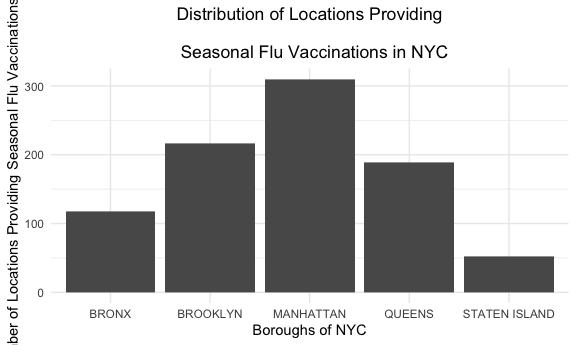
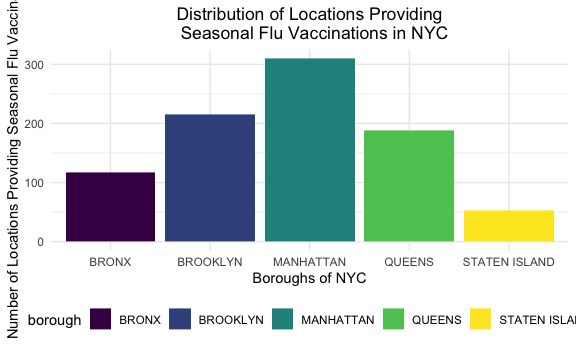
draft of leaflet map for covid vaccine

diff --git a/analysis.md b/analysis.md
@@ -7,7 +7,7 @@ Twindemic Analysis
 
 ## COMMIT FIRST, THEN PULL (FROM OTHER END)
 
-> > > > > > > Stashed changes
+Stashed changes
 
 # Data Cleaning
 
@@ -27,7 +27,7 @@ zip_lat_lon =
   read.table("./data/us_zipcode_lat_lon.txt", sep = ",", header = TRUE) %>% 
   janitor::clean_names() %>% 
   rename(zipcode = zip) %>% 
-  filter(zipcode %in% c(10001:10280))
+  filter(zipcode %in% c(10001:11697))
 ```
 
 From the datasets above, we will likely compare the following pairs:
@@ -176,7 +176,7 @@ Selected Social Characteristics
 ``` r
 flu_vaxx_loc = read_csv("./data/New_York_City_Locations_Providing_Seasonal_Flu_Vaccinations.csv")
 
-census_social = read_csv("./data/censuszip_selected_social_characterisitcs.csv")
+census_social = read_csv("./data/censuszip_selected_social_characterisitcs_new.csv")
 ```
 
 # Data Cleaning 2
@@ -185,56 +185,144 @@ Cleaning flu\_vaxx\_loc:
 
 ``` r
 flu_vaxx_byzipcode =
-
   flu_vaxx_loc %>%
-
   janitor::clean_names() %>%
-
   select(walk_in:zip_code, location) %>%
-
   filter(borough != "YONKERS") %>%
-
   group_by(zip_code) %>%
-
   summarize(n_loc = n()) #to get the total number of vax locations by zipcode
 
- 
-
 flu_vaxx_byboro =
-
     flu_vaxx_loc %>%
-
     janitor::clean_names() %>%
-
     mutate(borough = toupper(borough)) %>%
-
     filter(borough != "YONKERS") %>%
-
     group_by(borough) %>%
-
     summarize(n_loc_boro = n()) #to get the total number of vax locations by zipcode
 ```
 
-## Exploratory Analysis:
+## Exploratory Analysis
 
 ``` r
-ggplot(flu_vaxx_byboro, aes(x = borough, y = n_loc_boro)) +
-
+ggplot(flu_vaxx_byboro, aes(x = borough, y = n_loc_boro, fill = borough)) +
   geom_bar(stat = "identity") +
-
   labs(
-
     title = "Distribution of Locations Providing
-
   Seasonal Flu Vaccinations in NYC",
-
     x = "Boroughs of NYC",
-
     y = "Number of Locations Providing Seasonal Flu Vaccinations"
-
   ) +
-
   theme(plot.title = element_text(hjust = 0.5))
 ```
 
 <img src="analysis_files/figure-gfm/unnamed-chunk-12-1.png" width="90%" />
+
+# Social Demo
+
+``` r
+# education
+cs =
+  census_social %>%
+  janitor::clean_names() %>% 
+  select(name_1, borough, dp02_0060e, dp02_0061e,dp02_0062e,dp02_0063e,dp02_0064e,dp02_0065e, dp02_0066e, dp02_0067e, dp02_0068e) %>%
+  filter(borough != "Westchester" ,
+  borough != "Suffolk" ,
+  borough != "Nassau" ,
+  ) %>%
+  rename(
+  less_than_9th = dp02_0060e,
+  hs_no_diploma = dp02_0061e,
+  hs_grad = dp02_0062e,
+  some_college = dp02_0063e, 
+  Associates = dp02_0064e, 
+  Bachelors = dp02_0065e, 
+  Graduate_or_Professional = dp02_0066e, 
+  hs_or_higher = dp02_0067e, 
+  bachelors_or_higher = dp02_0068e
+  ) %>%
+  pivot_longer(
+    less_than_9th:bachelors_or_higher,
+    names_to = "education", 
+    values_to = "Estimates for Population over 25 years"
+  ) 
+```
+
+``` r
+# demographics
+demo =
+  census_social %>%
+  janitor::clean_names() %>% 
+  select(name_1, borough, dp02_0124e, dp02_0125e, dp02_0126e, dp02_0127e, dp02_0128e, dp02_0129e, dp02_0130e, dp02_0131e, dp02_0132e,
+dp02_0133e, dp02_0134e, dp02_0135e,dp02_0136e, dp02_0137e, dp02_0138e, dp02_0139e, dp02_0140e, dp02_0141e, dp02_0142e, dp02_0143e,  dp02_0144e, dp02_0145e,  dp02_0146e,  dp02_0147e, dp02_0148e,  dp02_0149e,  dp02_0150e) %>% 
+filter(borough != "Westchester" ,
+  borough != "Suffolk" ,
+  borough != "Nassau" ,
+  ) %>%
+  rename(
+  American = dp02_0124e, 
+  Arab = dp02_0125e, 
+  Czech = dp02_0126e, 
+  Danish = dp02_0127e, 
+  Dutch = dp02_0128e, 
+  English = dp02_0129e, 
+  French = dp02_0130e, 
+  French_Canadian = dp02_0131e, 
+  German = dp02_0132e,
+  Greek = dp02_0133e, 
+  Hungarian = dp02_0134e, 
+  Irish = dp02_0135e,
+  Italian = dp02_0136e, 
+  Lithuanian = dp02_0137e, 
+  Norwegian = dp02_0138e, 
+  Polish = dp02_0139e, 
+  Portuguese = dp02_0140e, 
+  Russian = dp02_0141e, 
+  Scotch_Irish = dp02_0142e, 
+  Scottish = dp02_0143e,  
+  Slovak = dp02_0144e, 
+  Subsaharan_African = dp02_0145e,  
+  Swedish = dp02_0146e,  
+  Swiss = dp02_0147e, 
+  Ukrainian = dp02_0148e,  
+  Welsh = dp02_0149e,  
+  West_Indian = dp02_0150e) %>%
+  pivot_longer(
+    American:West_Indian,
+    names_to = "ancestry", 
+    values_to = "Estimates for Population"
+  ) 
+```
+
+\#Merge data and try to make a leaflet
+
+``` r
+merged_vax = left_join(vax_by_zip_adults_df, zip_lat_lon, by = "zipcode")
+```
+
+``` r
+pal = colorFactor("viridis", NULL)
+merged_vax %>%
+  leaflet() %>%
+  addProviderTiles(providers$CartoDB.Positron) %>%
+  addCircleMarkers(~lng, ~lat, radius = 5, color = ~pal(perc_fully), popup = ~perc_fully) %>%
+    addLegend("bottomright", pal = pal, values = ~perc_fully,
+    title = "Percent fully vaccinated",
+    opacity = 1)
+```
+
+<div id="htmlwidget-44e12068daf6308abe10" style="width:90%;height:345.6px;" class="leaflet html-widget"></div>
+<script type="application/json" data-for="htmlwidget-44e12068daf6308abe10">{"x":{"options":{"crs":{"crsClass":"L.CRS.EPSG3857","code":null,"proj4def":null,"projectedBounds":null,"options":{}}},"calls":[{"method":"addProviderTiles","args":["CartoDB.Positron",null,null,{"errorTileUrl":"","noWrap":false,"detectRetina":false}]},{"method":"addCircleMarkers","args":[[40.750633,40.715775,40.731829,40.68863,40.706027,40.709614,40.713848,40.726399,40.739065,40.742039,40.725581,40.720103,40.734012,40.745224,40.75236,40.755319,40.765823,40.769258,40.758628,40.775921,40.798452,40.798601,40.802381,40.811407,40.776441,40.791763,40.818267,40.825288,40.838815,40.850545,40.867076,40.795455,40.75926,40.812957,40.709278,40.830867,40.858305,40.761915,40.764612,40.775906,40.773361,40.781432,40.708538,40.716921,40.627456,40.630688,40.629885,40.609227,40.596691,40.571768,40.509183,40.551884,40.531346,40.632648,40.545237,40.599263,40.820479,40.837393,40.852779,40.805489,40.81471,40.829881,40.84715,40.862543,40.825867,40.841758,40.847381,40.84328,40.880678,40.867787,40.822615,40.890964,40.869953,40.868093,40.868607,40.88953,40.898868,40.829556,40.81869,40.810549,40.875169,40.746204,40.747155,40.772884,40.762574,40.744634,40.778877,40.762211,40.745115,40.693682,40.649591,40.618779,40.694696,40.701954,40.670747,40.669769,40.621982,40.628147,40.712597,40.662936,40.671078,40.599148,40.662688,40.680768,40.682306,40.643468,40.632667,40.641221,40.69134,40.72779,40.597139,40.577372,40.663046,40.646448,40.616695,40.601293,40.622164,40.677916,40.656546,40.678308,40.60508,40.583949,40.639413,40.70416,40.679171,40.647735,40.768208,40.751452,40.78485,40.786393,40.760471,40.780379,40.764191,40.756574,40.772616,40.745289,40.739634,40.728152,40.730145,40.751718,40.763365,40.765393,40.75169,40.738837,40.726418,40.720934,40.744819,40.724744,40.716748,40.700671,40.694021,40.698095,40.671659,40.657604,40.707917,40.684654,40.676446,40.700272,40.688673,40.673583,40.694062,40.66006,40.715606,40.736425,40.730904,40.721016,40.709766,40.715359,40.698162,40.676808,40.701265,40.675807,40.601278,40.594095,40.590692,40.57827,40.555688],[-73.997177,-73.986212,-73.989181,-74.018244,-74.008835,-74.012954,-74.007755,-73.978631,-73.982255,-74.00062,-73.998078,-74.004903,-74.006746,-73.978297,-73.972493,-73.993114,-73.987169,-73.958751,-73.967948,-73.982607,-73.974428,-73.966622,-73.952681,-73.95306,-73.953509,-73.94397,-73.942856,-73.950045,-73.942836,-73.933983,-73.924312,-73.929655,-73.98986,-73.937376,-74.002562,-73.936218,-73.930549,-73.949962,-73.963122,-73.990358,-73.956216,-73.950013,-74.01665,-74.015066,-74.094407,-74.137776,-74.17413,-74.092575,-74.074866,-74.12595,-74.237785,-74.147646,-74.219857,-74.116148,-74.180443,-74.165748,-73.925084,-73.923437,-73.912332,-73.916585,-73.908593,-73.90812,-73.89868,-73.888143,-73.892942,-73.879571,-73.840584,-73.860389,-73.90654,-73.79992,-73.822239,-73.846239,-73.865746,-73.89973,-73.848133,-73.872662,-73.903328,-73.869336,-73.858474,-73.884367,-73.823817,-73.711478,-73.93975,-73.926295,-73.913447,-73.920201,-73.906769,-73.931528,-73.956928,-73.989693,-73.934371,-73.984826,-73.966286,-73.942358,-73.894209,-73.871372,-74.030324,-73.946324,-73.953098,-73.913029,-73.936336,-73.99609,-73.98674,-73.949316,-73.978099,-73.976046,-73.996669,-74.016862,-73.927879,-73.947605,-73.973428,-73.988706,-73.954219,-73.956649,-74.013047,-73.944493,-73.965105,-74.005154,-74.007355,-73.919936,-73.911721,-73.949096,-73.900664,-73.921139,-73.963804,-73.879477,-73.827403,-73.821031,-73.841279,-73.810864,-73.796371,-73.78123,-73.772775,-73.737845,-73.746526,-73.760586,-73.79449,-73.785019,-73.82703,-73.851822,-73.872374,-73.893243,-73.883638,-73.878535,-73.861526,-73.846151,-73.905156,-73.909639,-73.879601,-73.889433,-73.736216,-73.758986,-73.752568,-73.844804,-73.828212,-73.849548,-73.844443,-73.835971,-73.822918,-73.81773,-73.858626,-73.736012,-73.768471,-73.722376,-73.745661,-73.742245,-73.738653,-73.793071,-73.786893,-73.776425,-73.809605,-73.796622,-73.761651,-73.792896,-73.809749,-73.844762,-73.920663],5,null,null,{"interactive":true,"className":"","stroke":true,"color":["#EFE51C","#8AD547","#3A548C","#F6E620","#8DD645","#F3E61E","#D4E21A","#1F988B","#355E8D","#25AC82","#2E6F8E","#5FC961","#1F9E89","#99D83E","#D0E11C","#FDE725","#E4E419","#1F968B","#A0DA39","#50C46A","#2BB17E","#1FA187","#472A7A","#433E85","#23888E","#27808E","#482374","#3E4A89","#3B518B","#414387","#424186","#20938C","#FAE722","#482475","#33B679","#46327E","#3E4C8A","#2DB27D","#47C06F","#74D055","#91D743","#35B779","#26828E","#31688E","#218E8D","#21A685","#25848E","#23A983","#1F998A","#2FB47C","#472F7D","#453781","#3C4F8A","#37B878","#32648E","#3B528B","#31B57B","#26AD81","#24878E","#287D8E","#2C738E","#375B8D","#29798E","#365C8D","#21918C","#355F8D","#63CB5F","#41BD72","#228D8D","#1E9B8A","#3F4889","#481F70","#33628D","#31678E","#472E7C","#2E6E8E","#1E9C89","#297A8E","#38598C","#3F4788","#424186","#2A768E","#E7E419","#C0DF25","#56C667","#9CD93B","#287C8E","#66CB5D","#A8DB34","#7BD151","#404588","#30698E","#460C5F","#433C84","#3D4E8A","#2F6B8E","#20A386","#460A5D","#443983","#355F8D","#471365","#20928C","#1F958B","#34618D","#2A778E","#228B8D","#46075B","#D8E219","#2D718E","#44BF70","#46337F","#450559","#39558C","#277F8E","#24878E","#443A83","#481B6D","#38578C","#28AE80","#440356","#482072","#32658E","#48196B","#3CBB75","#3FBC73","#7ED34E","#C4E022","#EBE51B","#CCE11E","#59C765","#B8DE29","#3ABA76","#ACDC31","#53C569","#70CF57","#69CD5B","#5CC863","#24AA83","#21908D","#BCDF27","#C8E020","#2C718E","#D8E219","#DCE318","#4DC26C","#238A8D","#B0DD2F","#29AF7F","#2B748E","#26828E","#471063","#472C7A","#470E61","#453581","#20A486","#86D549","#6DCD59","#4AC16D","#82D34C","#3CBB75","#77D153","#482878","#22A785","#1FA188","#B4DE2C","#94D840","#481769","#A4DB36","#2F6C8E","#482677","#1F9F88","#25858E","#440154","#481567","#481C6E","#424086","#DFE318"],"weight":5,"opacity":0.5,"fill":true,"fillColor":["#EFE51C","#8AD547","#3A548C","#F6E620","#8DD645","#F3E61E","#D4E21A","#1F988B","#355E8D","#25AC82","#2E6F8E","#5FC961","#1F9E89","#99D83E","#D0E11C","#FDE725","#E4E419","#1F968B","#A0DA39","#50C46A","#2BB17E","#1FA187","#472A7A","#433E85","#23888E","#27808E","#482374","#3E4A89","#3B518B","#414387","#424186","#20938C","#FAE722","#482475","#33B679","#46327E","#3E4C8A","#2DB27D","#47C06F","#74D055","#91D743","#35B779","#26828E","#31688E","#218E8D","#21A685","#25848E","#23A983","#1F998A","#2FB47C","#472F7D","#453781","#3C4F8A","#37B878","#32648E","#3B528B","#31B57B","#26AD81","#24878E","#287D8E","#2C738E","#375B8D","#29798E","#365C8D","#21918C","#355F8D","#63CB5F","#41BD72","#228D8D","#1E9B8A","#3F4889","#481F70","#33628D","#31678E","#472E7C","#2E6E8E","#1E9C89","#297A8E","#38598C","#3F4788","#424186","#2A768E","#E7E419","#C0DF25","#56C667","#9CD93B","#287C8E","#66CB5D","#A8DB34","#7BD151","#404588","#30698E","#460C5F","#433C84","#3D4E8A","#2F6B8E","#20A386","#460A5D","#443983","#355F8D","#471365","#20928C","#1F958B","#34618D","#2A778E","#228B8D","#46075B","#D8E219","#2D718E","#44BF70","#46337F","#450559","#39558C","#277F8E","#24878E","#443A83","#481B6D","#38578C","#28AE80","#440356","#482072","#32658E","#48196B","#3CBB75","#3FBC73","#7ED34E","#C4E022","#EBE51B","#CCE11E","#59C765","#B8DE29","#3ABA76","#ACDC31","#53C569","#70CF57","#69CD5B","#5CC863","#24AA83","#21908D","#BCDF27","#C8E020","#2C718E","#D8E219","#DCE318","#4DC26C","#238A8D","#B0DD2F","#29AF7F","#2B748E","#26828E","#471063","#472C7A","#470E61","#453581","#20A486","#86D549","#6DCD59","#4AC16D","#82D34C","#3CBB75","#77D153","#482878","#22A785","#1FA188","#B4DE2C","#94D840","#481769","#A4DB36","#2F6C8E","#482677","#1F9F88","#25858E","#440154","#481567","#481C6E","#424086","#DFE318"],"fillOpacity":0.2},null,null,[115.54,92.64,75.43,132.59,93,126.6,106,81.24,75.92,83.7,78.01,89.4,82.29,93.65,104.14,160.72,111.63,80.97,94.26,88.27,84.87,82.88,69.98,71.92,79.8,79.08,68.82,73.7,75.31,72.8,72.3,80.69,140.5,69.17,85.12,70.73,74.01,84.91,87.59,91.48,93.06,86.09,79.11,76.88,80.07,83.12,79.53,83.56,81.85,84.92,70.19,71.22,74.62,86.44,76.28,75.33,85.04,83.74,79.71,79.04,78.39,75.6,78.88,75.84,80.28,75.99,89.54,87.19,80,82.04,73.24,68.72,76.05,76.69,70.08,77.33,82.17,78.95,75.53,73.07,72.3,78.47,113.17,100.54,88.36,93.69,78.97,90.08,95.37,92.03,72.96,76.89,66.09,71.72,74.05,77.03,83,65.83,71.53,75.99,67.05,80.48,80.96,76.04,78.5,79.9,65.38,107.16,78.17,87.38,70.83,65.31,75.47,79.07,79.71,71.57,68.11,75.51,83.88,64.29,68.73,76.42,67.82,87,87.03,92.11,101.69,113.92,103.64,88.89,98.81,86.85,95.46,88.31,90.64,90.5,89.08,83.67,80.12,99,102.48,78.35,107.16,111.01,88.18,79.85,97.15,84.24,78.46,79.36,67.04,69.99,66.34,71.05,83.11,92.44,90.56,87.88,92.41,87,92.01,69.81,83.32,82.74,97.47,93.17,67.4,94.4,77.3,69.54,82.67,79.63,61.35,67.19,68.14,72.03,111.36],null,null,{"interactive":false,"permanent":false,"direction":"auto","opacity":1,"offset":[0,0],"textsize":"10px","textOnly":false,"className":"","sticky":true},null]},{"method":"addLegend","args":[{"colors":["#440154","#440356","#450559","#46075B","#460A5D","#460C5F","#470E61","#471063","#471365","#481567","#481769","#48196B","#481B6D","#481C6E","#481F70","#482072","#482374","#482475","#482677","#482878","#472A7A","#472C7A","#472E7C","#472F7D","#46327E","#46337F","#453581","#453781","#443983","#443A83","#433C84","#433E85","#424086","#424186","#414387","#404588","#3F4788","#3F4889","#3E4A89","#3E4C8A","#3D4E8A","#3C4F8A","#3B518B","#3B528B","#3A548C","#39558C","#38578C","#38598C","#375B8D","#365C8D","#355E8D","#355F8D","#34618D","#33628D","#32648E","#32658E","#31678E","#31688E","#30698E","#2F6B8E","#2F6C8E","#2E6E8E","#2E6F8E","#2D718E","#2C718E","#2C738E","#2B748E","#2A768E","#2A778E","#29798E","#297A8E","#287C8E","#287D8E","#277F8E","#27808E","#26828E","#26828E","#25848E","#25858E","#24878E","#23888E","#238A8D","#228B8D","#228D8D","#218E8D","#21908D","#21918C","#20928C","#20938C","#1F958B","#1F968B","#1F988B","#1F998A","#1E9B8A","#1E9C89","#1F9E89","#1F9F88","#1FA188","#1FA187","#20A386","#20A486","#21A685","#22A785","#23A983","#24AA83","#25AC82","#26AD81","#28AE80","#29AF7F","#2BB17E","#2DB27D","#2FB47C","#31B57B","#33B679","#35B779","#37B878","#3ABA76","#3CBB75","#3FBC73","#41BD72","#44BF70","#47C06F","#4AC16D","#4DC26C","#50C46A","#53C569","#56C667","#59C765","#5CC863","#5FC961","#63CB5F","#66CB5D","#69CD5B","#6DCD59","#70CF57","#74D055","#77D153","#7BD151","#7ED34E","#82D34C","#86D549","#8AD547","#8DD645","#91D743","#94D840","#99D83E","#9CD93B","#A0DA39","#A4DB36","#A8DB34","#ACDC31","#B0DD2F","#B4DE2C","#B8DE29","#BCDF27","#C0DF25","#C4E022","#C8E020","#CCE11E","#D0E11C","#D4E21A","#D8E219","#DCE318","#DFE318","#E4E419","#E7E419","#EBE51B","#EFE51C","#F3E61E","#F6E620","#FAE722","#FDE725"],"labels":["61.35","64.29","65.31","65.38","65.83","66.09","66.34","67.04","67.05","67.19","67.4","67.82","68.11","68.14","68.72","68.73","68.82","69.17","69.54","69.81","69.98","69.99","70.08","70.19","70.73","70.83","71.05","71.22","71.53","71.57","71.72","71.92","72.03","72.3","72.8","72.96","73.07","73.24","73.7","74.01","74.05","74.62","75.31","75.33","75.43","75.47","75.51","75.53","75.6","75.84","75.92","75.99","76.04","76.05","76.28","76.42","76.69","76.88","76.89","77.03","77.3","77.33","78.01","78.17","78.35","78.39","78.46","78.47","78.5","78.88","78.95","78.97","79.04","79.07","79.08","79.11","79.36","79.53","79.63","79.71","79.8","79.85","79.9","80","80.07","80.12","80.28","80.48","80.69","80.96","80.97","81.24","81.85","82.04","82.17","82.29","82.67","82.74","82.88","83","83.11","83.12","83.32","83.56","83.67","83.7","83.74","83.88","84.24","84.87","84.91","84.92","85.04","85.12","86.09","86.44","86.85","87","87.03","87.19","87.38","87.59","87.88","88.18","88.27","88.31","88.36","88.89","89.08","89.4","89.54","90.08","90.5","90.56","90.64","91.48","92.01","92.03","92.11","92.41","92.44","92.64","93","93.06","93.17","93.65","93.69","94.26","94.4","95.37","95.46","97.15","97.47","98.81","99","100.54","101.69","102.48","103.64","104.14","106","107.16","111.01","111.36","111.63","113.17","113.92","115.54","126.6","132.59","140.5","160.72"],"na_color":null,"na_label":"NA","opacity":1,"position":"bottomright","type":"factor","title":"Percent fully vaccinated","extra":null,"layerId":null,"className":"info legend","group":null}]}],"limits":{"lat":[40.509183,40.898868],"lng":[-74.237785,-73.711478]}},"evals":[],"jsHooks":[]}</script>
+
+``` r
+pal = colorFactor("viridis", NULL)
+merged_vax %>%
+  leaflet() %>%
+  addProviderTiles(providers$CartoDB.Positron) %>%
+  addCircleMarkers(~lng, ~lat, radius = 5, color = ~pal(perc_partially), popup = ~perc_partially) %>%
+    addLegend("bottomright", pal = pal, values = ~perc_partially,
+    title = "Percent partially vaccinated",
+    opacity = 1)
+```
+
+<div id="htmlwidget-e2d2feea60699843d585" style="width:90%;height:345.6px;" class="leaflet html-widget"></div>
+<script type="application/json" data-for="htmlwidget-e2d2feea60699843d585">{"x":{"options":{"crs":{"crsClass":"L.CRS.EPSG3857","code":null,"proj4def":null,"projectedBounds":null,"options":{}}},"calls":[{"method":"addProviderTiles","args":["CartoDB.Positron",null,null,{"errorTileUrl":"","noWrap":false,"detectRetina":false}]},{"method":"addCircleMarkers","args":[[40.750633,40.715775,40.731829,40.68863,40.706027,40.709614,40.713848,40.726399,40.739065,40.742039,40.725581,40.720103,40.734012,40.745224,40.75236,40.755319,40.765823,40.769258,40.758628,40.775921,40.798452,40.798601,40.802381,40.811407,40.776441,40.791763,40.818267,40.825288,40.838815,40.850545,40.867076,40.795455,40.75926,40.812957,40.709278,40.830867,40.858305,40.761915,40.764612,40.775906,40.773361,40.781432,40.708538,40.716921,40.627456,40.630688,40.629885,40.609227,40.596691,40.571768,40.509183,40.551884,40.531346,40.632648,40.545237,40.599263,40.820479,40.837393,40.852779,40.805489,40.81471,40.829881,40.84715,40.862543,40.825867,40.841758,40.847381,40.84328,40.880678,40.867787,40.822615,40.890964,40.869953,40.868093,40.868607,40.88953,40.898868,40.829556,40.81869,40.810549,40.875169,40.746204,40.747155,40.772884,40.762574,40.744634,40.778877,40.762211,40.745115,40.693682,40.649591,40.618779,40.694696,40.701954,40.670747,40.669769,40.621982,40.628147,40.712597,40.662936,40.671078,40.599148,40.662688,40.680768,40.682306,40.643468,40.632667,40.641221,40.69134,40.72779,40.597139,40.577372,40.663046,40.646448,40.616695,40.601293,40.622164,40.677916,40.656546,40.678308,40.60508,40.583949,40.639413,40.70416,40.679171,40.647735,40.768208,40.751452,40.78485,40.786393,40.760471,40.780379,40.764191,40.756574,40.772616,40.745289,40.739634,40.728152,40.730145,40.751718,40.763365,40.765393,40.75169,40.738837,40.726418,40.720934,40.744819,40.724744,40.716748,40.700671,40.694021,40.698095,40.671659,40.657604,40.707917,40.684654,40.676446,40.700272,40.688673,40.673583,40.694062,40.66006,40.715606,40.736425,40.730904,40.721016,40.709766,40.715359,40.698162,40.676808,40.701265,40.675807,40.601278,40.594095,40.590692,40.57827,40.555688],[-73.997177,-73.986212,-73.989181,-74.018244,-74.008835,-74.012954,-74.007755,-73.978631,-73.982255,-74.00062,-73.998078,-74.004903,-74.006746,-73.978297,-73.972493,-73.993114,-73.987169,-73.958751,-73.967948,-73.982607,-73.974428,-73.966622,-73.952681,-73.95306,-73.953509,-73.94397,-73.942856,-73.950045,-73.942836,-73.933983,-73.924312,-73.929655,-73.98986,-73.937376,-74.002562,-73.936218,-73.930549,-73.949962,-73.963122,-73.990358,-73.956216,-73.950013,-74.01665,-74.015066,-74.094407,-74.137776,-74.17413,-74.092575,-74.074866,-74.12595,-74.237785,-74.147646,-74.219857,-74.116148,-74.180443,-74.165748,-73.925084,-73.923437,-73.912332,-73.916585,-73.908593,-73.90812,-73.89868,-73.888143,-73.892942,-73.879571,-73.840584,-73.860389,-73.90654,-73.79992,-73.822239,-73.846239,-73.865746,-73.89973,-73.848133,-73.872662,-73.903328,-73.869336,-73.858474,-73.884367,-73.823817,-73.711478,-73.93975,-73.926295,-73.913447,-73.920201,-73.906769,-73.931528,-73.956928,-73.989693,-73.934371,-73.984826,-73.966286,-73.942358,-73.894209,-73.871372,-74.030324,-73.946324,-73.953098,-73.913029,-73.936336,-73.99609,-73.98674,-73.949316,-73.978099,-73.976046,-73.996669,-74.016862,-73.927879,-73.947605,-73.973428,-73.988706,-73.954219,-73.956649,-74.013047,-73.944493,-73.965105,-74.005154,-74.007355,-73.919936,-73.911721,-73.949096,-73.900664,-73.921139,-73.963804,-73.879477,-73.827403,-73.821031,-73.841279,-73.810864,-73.796371,-73.78123,-73.772775,-73.737845,-73.746526,-73.760586,-73.79449,-73.785019,-73.82703,-73.851822,-73.872374,-73.893243,-73.883638,-73.878535,-73.861526,-73.846151,-73.905156,-73.909639,-73.879601,-73.889433,-73.736216,-73.758986,-73.752568,-73.844804,-73.828212,-73.849548,-73.844443,-73.835971,-73.822918,-73.81773,-73.858626,-73.736012,-73.768471,-73.722376,-73.745661,-73.742245,-73.738653,-73.793071,-73.786893,-73.776425,-73.809605,-73.796622,-73.761651,-73.792896,-73.809749,-73.844762,-73.920663],5,null,null,{"interactive":true,"className":"","stroke":true,"color":["#F6E620","#3ABA76","#4FC36B","#E6E419","#D1E11C","#F2E51D","#E1E418","#1F948C","#27AD81","#6ACD5B","#42BE71","#BBDE27","#63CB5F","#B2DD2D","#EAE51A","#FDE725","#EEE51C","#1F958B","#DDE318","#6ECE58","#25AC82","#2DB27D","#23A983","#6ECE58","#2B748E","#1FA088","#33B67A","#23898E","#21918C","#2B758E","#31688E","#81D34D","#F9E622","#365D8D","#C8E020","#48C16E","#287D8E","#375B8D","#AFDD2F","#45C06F","#52C569","#20928C","#1F9A8A","#3DBC74","#1E9D89","#71CF57","#2EB37C","#21A685","#3E4B8A","#482777","#470D60","#46085C","#414287","#35B779","#470F62","#470F62","#8DD645","#95D840","#9AD93D","#B7DE2A","#89D548","#9DD93B","#CCE11E","#7DD24F","#91D742","#A6DB35","#2C718E","#20928C","#2C728E","#38588C","#424086","#287D8E","#38B977","#5FC961","#31668E","#2D708E","#33638D","#66CC5D","#1E9C89","#85D44A","#481467","#46085C","#D9E319","#20A386","#375A8C","#3F4889","#482072","#29798E","#3FBC73","#5CC863","#26818E","#472B7A","#306A8E","#1F978B","#79D152","#4FC36B","#482374","#355E8D","#2D708E","#C4E022","#25AB82","#46317E","#3C4F8A","#22A785","#1FA187","#3E4989","#46337F","#55C667","#58C765","#25848E","#472D7B","#2E6D8E","#2F6B8E","#31B57B","#450357","#481668","#32658E","#3A548C","#21908D","#2AB07F","#481F70","#414487","#2B748E","#AADC32","#218E8D","#A1DA38","#297A8E","#228B8D","#4CC26C","#481B6D","#443983","#481C6E","#463480","#48186A","#443A83","#471164","#453781","#472F7D","#433D84","#D5E21A","#C0DF25","#404688","#75D054","#28AE80","#482979","#460A5D","#2A778E","#3B518B","#450559","#277F8E","#3C4F8A","#228C8D","#39558C","#440154","#482576","#25848E","#3B528B","#287C8E","#2E6E8E","#414287","#26828E","#25838E","#423F85","#481C6E","#3D4D8A","#34608D","#3C4F8A","#21908D","#1F988B","#1F9F88","#33628D","#24868E","#20A486","#21A685","#443983","#481C6E","#23888E"],"weight":5,"opacity":0.5,"fill":true,"fillColor":["#F6E620","#3ABA76","#4FC36B","#E6E419","#D1E11C","#F2E51D","#E1E418","#1F948C","#27AD81","#6ACD5B","#42BE71","#BBDE27","#63CB5F","#B2DD2D","#EAE51A","#FDE725","#EEE51C","#1F958B","#DDE318","#6ECE58","#25AC82","#2DB27D","#23A983","#6ECE58","#2B748E","#1FA088","#33B67A","#23898E","#21918C","#2B758E","#31688E","#81D34D","#F9E622","#365D8D","#C8E020","#48C16E","#287D8E","#375B8D","#AFDD2F","#45C06F","#52C569","#20928C","#1F9A8A","#3DBC74","#1E9D89","#71CF57","#2EB37C","#21A685","#3E4B8A","#482777","#470D60","#46085C","#414287","#35B779","#470F62","#470F62","#8DD645","#95D840","#9AD93D","#B7DE2A","#89D548","#9DD93B","#CCE11E","#7DD24F","#91D742","#A6DB35","#2C718E","#20928C","#2C728E","#38588C","#424086","#287D8E","#38B977","#5FC961","#31668E","#2D708E","#33638D","#66CC5D","#1E9C89","#85D44A","#481467","#46085C","#D9E319","#20A386","#375A8C","#3F4889","#482072","#29798E","#3FBC73","#5CC863","#26818E","#472B7A","#306A8E","#1F978B","#79D152","#4FC36B","#482374","#355E8D","#2D708E","#C4E022","#25AB82","#46317E","#3C4F8A","#22A785","#1FA187","#3E4989","#46337F","#55C667","#58C765","#25848E","#472D7B","#2E6D8E","#2F6B8E","#31B57B","#450357","#481668","#32658E","#3A548C","#21908D","#2AB07F","#481F70","#414487","#2B748E","#AADC32","#218E8D","#A1DA38","#297A8E","#228B8D","#4CC26C","#481B6D","#443983","#481C6E","#463480","#48186A","#443A83","#471164","#453781","#472F7D","#433D84","#D5E21A","#C0DF25","#404688","#75D054","#28AE80","#482979","#460A5D","#2A778E","#3B518B","#450559","#277F8E","#3C4F8A","#228C8D","#39558C","#440154","#482576","#25848E","#3B528B","#287C8E","#2E6E8E","#414287","#26828E","#25838E","#423F85","#481C6E","#3D4D8A","#34608D","#3C4F8A","#21908D","#1F988B","#1F9F88","#33628D","#24868E","#20A486","#21A685","#443983","#481C6E","#23888E"],"fillOpacity":0.2},null,null,[24.03,7.92,8.41,18.44,11.51,22.75,14.55,7.18,7.69,8.79,8.15,9.92,8.69,9.67,18.71,50.49,21.79,7.2,12.97,8.8,7.67,7.8,7.5,8.8,6.61,7.39,7.89,7.02,7.12,6.63,6.42,9.15,30.27,6.22,10.44,8.36,6.78,6.19,9.65,8.33,8.5,7.14,7.26,8.03,7.34,8.85,7.81,7.46,5.89,5.3,4.71,4.58,5.81,7.9,4.72,4.72,9.36,9.39,9.41,9.75,9.27,9.48,10.81,9.07,9.38,9.57,6.57,7.14,6.6,6.1,5.8,6.78,7.91,8.64,6.41,6.54,6.38,8.73,7.3,9.24,4.8,4.58,12.81,7.41,6.15,5.84,5.22,6.7,8.07,8.62,6.84,5.38,6.46,7.24,8.98,8.41,5.27,6.26,6.54,9.95,7.61,5.58,5.92,7.49,7.4,5.88,5.61,8.54,8.55,6.93,5.41,6.52,6.47,7.86,4.51,4.82,6.4,6.08,7.1,7.78,5.17,5.82,6.61,9.59,7.06,9.49,6.72,7.03,8.38,5.1,5.7,5.14,5.66,5.06,5.74,4.76,5.69,5.53,5.76,11.74,9.94,5.83,8.91,7.76,5.34,4.61,6.69,5.93,4.54,6.82,5.92,7.05,6.09,4.33,5.28,6.93,6,6.74,6.53,5.81,6.85,6.9,5.79,5.14,5.9,6.28,5.92,7.1,7.25,7.38,6.34,6.98,7.42,7.46,5.7,5.14,6.99],null,null,{"interactive":false,"permanent":false,"direction":"auto","opacity":1,"offset":[0,0],"textsize":"10px","textOnly":false,"className":"","sticky":true},null]},{"method":"addLegend","args":[{"colors":["#440154","#450357","#450559","#46085C","#460A5D","#470D60","#470F62","#471164","#481467","#481668","#48186A","#481B6D","#481C6E","#481F70","#482072","#482374","#482576","#482777","#482979","#472B7A","#472D7B","#472F7D","#46317E","#46337F","#463480","#453781","#443983","#443A83","#433D84","#423F85","#424086","#414287","#414487","#404688","#3F4889","#3E4989","#3E4B8A","#3D4D8A","#3C4F8A","#3B518B","#3B528B","#3A548C","#39558C","#38588C","#375A8C","#375B8D","#365D8D","#355E8D","#34608D","#33628D","#33638D","#32658E","#31668E","#31688E","#306A8E","#2F6B8E","#2E6D8E","#2E6E8E","#2D708E","#2C718E","#2C728E","#2B748E","#2B758E","#2A778E","#29798E","#297A8E","#287C8E","#287D8E","#277F8E","#26818E","#26828E","#25838E","#25848E","#24868E","#23888E","#23898E","#228B8D","#228C8D","#218E8D","#21908D","#21918C","#20928C","#1F948C","#1F958B","#1F978B","#1F988B","#1F9A8A","#1E9C89","#1E9D89","#1F9F88","#1FA088","#1FA187","#20A386","#20A486","#21A685","#22A785","#23A983","#25AB82","#25AC82","#27AD81","#28AE80","#2AB07F","#2DB27D","#2EB37C","#31B57B","#33B67A","#35B779","#38B977","#3ABA76","#3DBC74","#3FBC73","#42BE71","#45C06F","#48C16E","#4CC26C","#4FC36B","#52C569","#55C667","#58C765","#5CC863","#5FC961","#63CB5F","#66CC5D","#6ACD5B","#6ECE58","#71CF57","#75D054","#79D152","#7DD24F","#81D34D","#85D44A","#89D548","#8DD645","#91D742","#95D840","#9AD93D","#9DD93B","#A1DA38","#A6DB35","#AADC32","#AFDD2F","#B2DD2D","#B7DE2A","#BBDE27","#C0DF25","#C4E022","#C8E020","#CCE11E","#D1E11C","#D5E21A","#D9E319","#DDE318","#E1E418","#E6E419","#EAE51A","#EEE51C","#F2E51D","#F6E620","#F9E622","#FDE725"],"labels":["4.33","4.51","4.54","4.58","4.61","4.71","4.72","4.76","4.8","4.82","5.06","5.1","5.14","5.17","5.22","5.27","5.28","5.3","5.34","5.38","5.41","5.53","5.58","5.61","5.66","5.69","5.7","5.74","5.76","5.79","5.8","5.81","5.82","5.83","5.84","5.88","5.89","5.9","5.92","5.93","6","6.08","6.09","6.1","6.15","6.19","6.22","6.26","6.28","6.34","6.38","6.4","6.41","6.42","6.46","6.47","6.52","6.53","6.54","6.57","6.6","6.61","6.63","6.69","6.7","6.72","6.74","6.78","6.82","6.84","6.85","6.9","6.93","6.98","6.99","7.02","7.03","7.05","7.06","7.1","7.12","7.14","7.18","7.2","7.24","7.25","7.26","7.3","7.34","7.38","7.39","7.4","7.41","7.42","7.46","7.49","7.5","7.61","7.67","7.69","7.76","7.78","7.8","7.81","7.86","7.89","7.9","7.91","7.92","8.03","8.07","8.15","8.33","8.36","8.38","8.41","8.5","8.54","8.55","8.62","8.64","8.69","8.73","8.79","8.8","8.85","8.91","8.98","9.07","9.15","9.24","9.27","9.36","9.38","9.39","9.41","9.48","9.49","9.57","9.59","9.65","9.67","9.75","9.92","9.94","9.95","10.44","10.81","11.51","11.74","12.81","12.97","14.55","18.44","18.71","21.79","22.75","24.03","30.27","50.49"],"na_color":null,"na_label":"NA","opacity":1,"position":"bottomright","type":"factor","title":"Percent partially vaccinated","extra":null,"layerId":null,"className":"info legend","group":null}]}],"limits":{"lat":[40.509183,40.898868],"lng":[-74.237785,-73.711478]}},"evals":[],"jsHooks":[]}</script>
